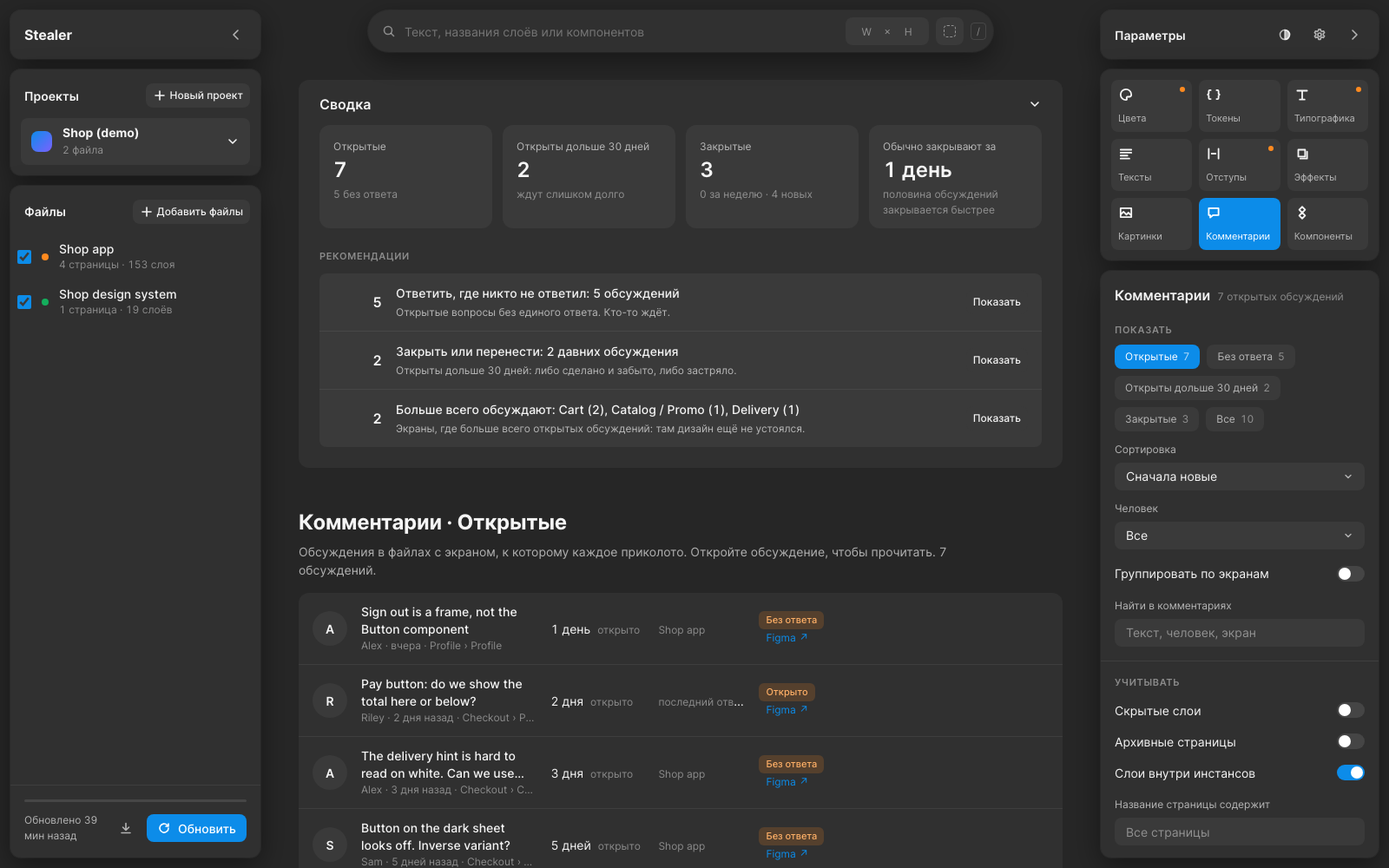
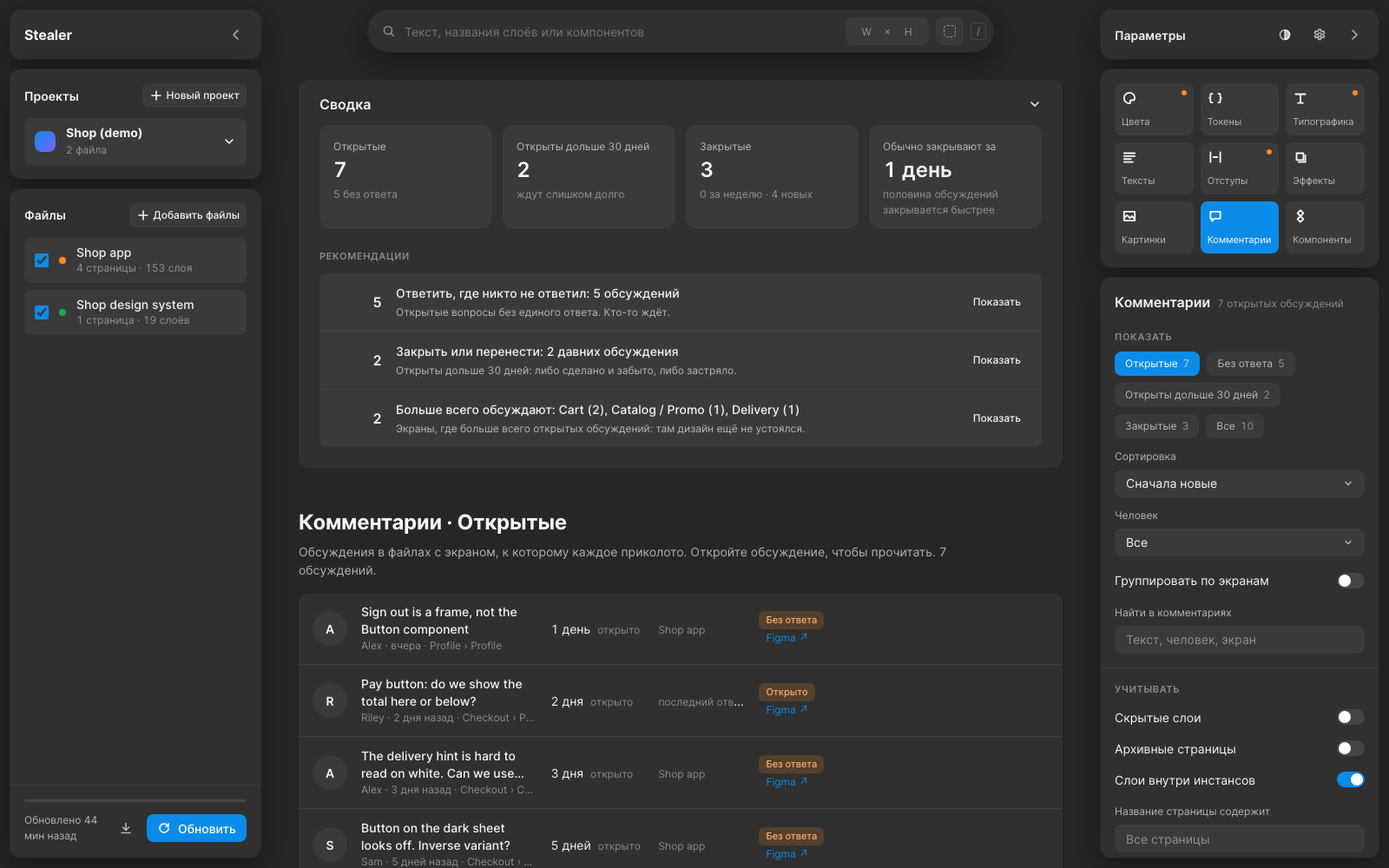
Files as cards like the project; one radius and inset system; scrollbars take no room
A file is a card like the project above it. Corners come from four steps
(12 blocks, 8 fields and cards, 6 small items, 4 swatches; pills are round), and
everything inside a block starts 16 px from its edge. System scrollbars are
hidden and a thin thumb is drawn over the edge while scrolling, so fields keep
their width whether a panel scrolls or not.

diff --git a/coloro/static/app.css b/coloro/static/app.css
@@ -18,7 +18,7 @@
 
   --fs-xs:11px; --fs-sm:12px; --fs-md:14px; --fs-lg:16px; --fs-xl:24px;
   --s1:4px; --s2:8px; --s3:12px; --s4:16px; --s5:24px; --s6:32px; --s7:48px;
-  --r:12px; --r-sm:8px; --h:32px;
+  --r:12px; --r-sm:8px; --r-xs:6px; --r-2xs:4px; --h:32px;
   --gap:12px; --lw:288px; --rw:320px;
 }
 body.light, html.pre-light body{
@@ -58,7 +58,7 @@ body.r-closed #right{transform:translateX(calc(100% + 24px));opacity:0;pointer-e
 .blk{background:var(--panel);border-radius:var(--r);box-shadow:var(--shadow-lg);flex:none}
 .blk.grow-blk{flex:1;min-height:0;display:flex;flex-direction:column}
 .ph{display:flex;align-items:center;gap:var(--s2);padding:var(--s3) var(--s3) var(--s3) var(--s4);min-height:56px}
-.bh{display:flex;align-items:center;gap:var(--s2);padding:var(--s4) var(--s3) var(--s3) var(--s4)}
+.bh{display:flex;align-items:center;gap:var(--s2);padding:var(--s4) var(--s4) var(--s3)}
 .brand{font-weight:700;font-size:var(--fs-lg);letter-spacing:-.01em}
 .title{font-weight:600;font-size:var(--fs-md)}
 .ib{width:var(--h);height:var(--h);border:0;border-radius:var(--r-sm);background:transparent;display:grid;place-items:center;cursor:pointer;color:var(--label);flex:none}
@@ -96,7 +96,7 @@ select.sel-native{display:none}
 .date-btn.is-empty .sel-v{color:var(--muted)}
 .dd{position:fixed;z-index:90;background:var(--panel);border-radius:var(--r-sm);box-shadow:var(--shadow-lg);padding:var(--s1);
   max-height:min(360px,calc(100vh - 16px));overflow:auto;display:flex;flex-direction:column;gap:1px}
-.dd-i{display:flex;align-items:center;gap:var(--s2);width:100%;min-height:var(--h);padding:0 var(--s3);border:0;border-radius:6px;background:none;
+.dd-i{display:flex;align-items:center;gap:var(--s2);width:100%;min-height:var(--h);padding:0 var(--s3);border:0;border-radius:var(--r-xs);background:none;
   color:var(--txt);text-align:left;cursor:pointer;font-size:var(--fs-md);white-space:nowrap}
 .dd-i .dd-t{flex:1}
 .dd-i:hover,.dd-i:focus{background:var(--btn);outline:none}
@@ -107,35 +107,38 @@ select.sel-native{display:none}
 .dp-h{display:flex;align-items:center;gap:var(--s2)} .dp-h b{text-align:center;font-weight:600}
 .dp-w,.dp-g{display:grid;grid-template-columns:repeat(7,1fr);gap:2px;text-align:center}
 .dp-w span{font-size:var(--fs-xs);color:var(--muted);height:24px;line-height:24px}
-.dp-d{height:32px;border:0;border-radius:6px;background:none;color:var(--txt);cursor:pointer;font-size:var(--fs-sm)}
+.dp-d{height:32px;border:0;border-radius:var(--r-xs);background:none;color:var(--txt);cursor:pointer;font-size:var(--fs-sm)}
 .dp-d:hover{background:var(--btn)} .dp-d.today{box-shadow:inset 0 0 0 1px var(--line)}
 .dp-d.on,.dp-d.on:hover{background:var(--accent);color:#fff;box-shadow:none}
 .dp-f{display:flex;justify-content:space-between;margin:0 calc(var(--s3) * -1);padding:var(--s3) var(--s3) 0;border-top:1px solid var(--line-soft)}
 .link.quiet{color:var(--label)}
 /* Files: a real button inside the field instead of the system one. */
 .in[type=file]{padding:0 var(--s1);line-height:calc(var(--h) - 2px);color:var(--muted);font-size:var(--fs-sm);cursor:pointer}
-.in[type=file]::file-selector-button{height:24px;margin:0 var(--s2) 0 0;border:0;border-radius:6px;background:var(--btn-hover);
+.in[type=file]::file-selector-button{height:24px;margin:0 var(--s2) 0 0;border:0;border-radius:var(--r-xs);background:var(--btn-hover);
   color:var(--txt);padding:0 var(--s3);font:inherit;font-size:var(--fs-sm);font-weight:500;cursor:pointer;vertical-align:middle}
 .in[type=file]:hover::file-selector-button{background:var(--line)}
 input[type=checkbox],input[type=radio]{width:16px;height:16px;margin:0;flex:none;accent-color:var(--accent);cursor:pointer}
 
 /* project */
-.projwrap{position:relative;padding:0 var(--s3) var(--s3)}
+.projwrap{position:relative;padding:0 var(--s4) var(--s4)}
 .proj{display:flex;align-items:center;gap:var(--s3);width:100%;border:0;background:var(--btn);border-radius:var(--r-sm);padding:var(--s2) var(--s3);cursor:pointer;text-align:left;line-height:1.35}
 .proj:hover{background:var(--btn-hover)}
 .proj #projMeta{font-size:var(--fs-sm)}
 .pdot{width:24px;height:24px;border-radius:var(--r-sm);flex:none;background:linear-gradient(135deg,#0c8ce9,#7b61ff)}
-.menu{position:absolute;left:var(--s3);right:var(--s3);top:calc(100% - 4px);background:var(--panel);border-radius:var(--r-sm);box-shadow:var(--shadow-lg);padding:var(--s1);z-index:5;display:none}
+.menu{position:absolute;left:var(--s4);right:var(--s4);top:calc(100% - 4px);background:var(--panel);border-radius:var(--r-sm);box-shadow:var(--shadow-lg);padding:var(--s1);z-index:5;display:none}
 .menu.on{display:block}
-.menu button{display:flex;width:100%;border:0;background:none;height:36px;padding:0 var(--s3);border-radius:6px;cursor:pointer;gap:var(--s2);align-items:center;text-align:left}
+.menu button{display:flex;width:100%;border:0;background:none;height:36px;padding:0 var(--s3);border-radius:var(--r-xs);cursor:pointer;gap:var(--s2);align-items:center;text-align:left}
 .menu button:hover{background:var(--btn)} .menu .on{font-weight:600} .menu hr{border:0;border-top:1px solid var(--line-soft);margin:var(--s1) calc(var(--s1) * -1)}
-.menu .pdot{width:16px;height:16px;border-radius:5px}
+.menu .pdot{width:16px;height:16px;border-radius:var(--r-xs)}
 .menu .danger{color:var(--bad-tx)}
 
 /* files */
 .addform{display:flex;flex-direction:column;gap:var(--s2);padding:var(--s3)}
-.file{display:grid;grid-template-columns:16px 8px minmax(0,1fr) auto;gap:var(--s3);align-items:center;padding:var(--s2);border-radius:var(--r-sm);position:relative;min-height:52px}
-.file:hover{background:var(--btn)}
+/* A file is a card like the project above it: same background, inset and corners. */
+#files{padding:0 var(--s4) var(--s4);display:flex;flex-direction:column;gap:var(--s2)}
+.file{display:grid;grid-template-columns:16px 8px minmax(0,1fr) auto;gap:var(--s3);align-items:center;padding:var(--s2) var(--s3);
+  background:var(--btn);border-radius:var(--r-sm);position:relative;min-height:52px}
+.file:hover{background:var(--btn-hover)}
 .file input{margin:0}
 .file .n{overflow:hidden;cursor:pointer;line-height:1.35}
 .file .n b{font-weight:500;display:block;overflow:hidden;text-overflow:ellipsis;white-space:nowrap}
@@ -144,18 +147,18 @@ input[type=checkbox],input[type=radio]{width:16px;height:16px;margin:0;flex:none
 .file .acts{display:none;gap:2px} .file:hover .acts{display:flex}
 .file .hits{font-size:var(--fs-xs);color:var(--accent)}
 .file:hover .hits{display:none}
-.file.solo{box-shadow:inset 2px 0 0 var(--accent)}
+.file.solo{box-shadow:inset 0 0 0 1px var(--accent)}
 .hd{width:8px;height:8px;border-radius:50%;background:var(--muted)}
 .hd.good{background:var(--ok)} .hd.fair{background:var(--warn)} .hd.bad{background:var(--bad)}
-.fbar{grid-column:3 / 5;height:2px;background:var(--line);border-radius:2px;overflow:hidden}
+.fbar{grid-column:3 / 5;height:2px;background:var(--line);border-radius:999px;overflow:hidden}
 .fbar i{display:block;height:100%;background:var(--accent);transition:width .3s}
-.total{height:3px;background:var(--line);border-radius:2px;overflow:hidden}
+.total{height:3px;background:var(--line);border-radius:999px;overflow:hidden}
 .total i{display:block;height:100%;width:0;background:var(--accent);transition:width .3s}
 .fmenu{position:absolute;right:var(--s2);top:100%;z-index:6;width:240px}
 #jobStatus{font-size:var(--fs-sm)}
 
 /* right: content types — tiles like in Booster: three in a row, icon on top, label below. */
-.types{display:grid;grid-template-columns:repeat(3,minmax(0,1fr));gap:var(--s2);padding:var(--s3)}
+.types{display:grid;grid-template-columns:repeat(3,minmax(0,1fr));gap:var(--s2);padding:var(--s4)}
 .tbtn{position:relative;height:60px;padding:var(--s2);border:0;border-radius:var(--r-sm);background:var(--btn);color:var(--txt);cursor:pointer;
   display:flex;flex-direction:column;align-items:flex-start;justify-content:space-between;transition:background .12s,transform .08s}
 .tbtn:active{transform:scale(.96)}
@@ -165,7 +168,7 @@ input[type=checkbox],input[type=radio]{width:16px;height:16px;margin:0;flex:none
 .tbtn svg.i{width:18px;height:18px}
 .tbtn i{position:absolute;top:var(--s2);right:var(--s2);width:6px;height:6px;border-radius:50%;background:var(--bad)}
 .tbtn i.fair{background:var(--warn)}
-.mini .tip{position:absolute;white-space:nowrap;background:var(--panel);box-shadow:var(--shadow-lg);padding:var(--s1) var(--s2);border-radius:6px;
+.mini .tip{position:absolute;white-space:nowrap;background:var(--panel);box-shadow:var(--shadow-lg);padding:var(--s1) var(--s2);border-radius:var(--r-xs);
   font-size:var(--fs-sm);color:var(--txt);opacity:0;pointer-events:none;transition:opacity .12s;z-index:3}
 .tbtn .tt{display:none}
 
@@ -187,7 +190,7 @@ input[type=checkbox],input[type=radio]{width:16px;height:16px;margin:0;flex:none
 .chip:disabled{opacity:.45;cursor:default}
 .chip em{font-style:normal;opacity:.7;margin-left:6px}
 .chip .dot{display:inline-block;width:8px;height:8px;border-radius:50%;margin-right:6px}
-.chip .sdot{display:inline-block;width:12px;height:12px;border-radius:4px;margin-right:6px}
+.chip .sdot{display:inline-block;width:12px;height:12px;border-radius:var(--r-2xs);margin-right:6px}
 .field{display:flex;flex-direction:column;gap:6px;padding:0}
 .field>.in,.field>select{margin:0}
 .field>.label{font-size:var(--fs-sm)}
@@ -195,7 +198,7 @@ input[type=checkbox],input[type=radio]{width:16px;height:16px;margin:0;flex:none
 /* Toggles one under another sit close; a field after them keeps the usual distance. */
 .tg+.tg{margin-top:calc(var(--s2) * -1)}
 .tg:hover{background:var(--btn)}
-.sw{width:32px;height:18px;border-radius:9px;background:var(--btn-hover);position:relative;flex:none;border:0;padding:0;cursor:pointer}
+.sw{width:32px;height:18px;border-radius:999px;background:var(--btn-hover);position:relative;flex:none;border:0;padding:0;cursor:pointer}
 .sw::after{content:"";position:absolute;top:2px;left:2px;width:14px;height:14px;border-radius:50%;background:#fff;transition:left .15s}
 .sw.on{background:var(--accent)} .sw.on::after{left:16px}
 .facet label{display:flex;align-items:center;gap:var(--s2);min-height:30px;cursor:pointer}
@@ -215,7 +218,7 @@ body.l-closed #miniL,body.r-closed #miniR,body.compact #miniL,body.compact #mini
 .mini svg.ring{position:absolute;inset:-3px;width:54px;height:54px;transform:rotate(-90deg);pointer-events:none}
 .ring circle{fill:none;stroke-width:2.5} .ring-bg{stroke:transparent} .ring-fg{stroke:var(--accent);stroke-dasharray:138.2;stroke-dashoffset:138.2;transition:stroke-dashoffset .3s}
 body.busy .ring-bg{stroke:var(--line)}
-.mini .badge{position:absolute;top:-3px;right:-3px;min-width:18px;height:18px;border-radius:9px;background:var(--bad);color:#fff;font-size:var(--fs-xs);font-weight:600;display:none;place-items:center;padding:0 5px}
+.mini .badge{position:absolute;top:-3px;right:-3px;min-width:18px;height:18px;border-radius:999px;background:var(--bad);color:#fff;font-size:var(--fs-xs);font-weight:600;display:none;place-items:center;padding:0 5px}
 .mini .badge.on{display:grid} .mini .badge.blue{background:var(--accent)}
 .mini .tip{top:50%;transform:translateY(-50%)}
 #miniL .tip{left:58px} #miniR .tip{right:58px}
@@ -226,7 +229,7 @@ body.busy .ring-bg{stroke:var(--line)}
 body.l-closed #center,body.compact #center{left:calc(48px + var(--gap) * 2)}
 body.r-closed #center,body.compact #center{right:calc(48px + var(--gap) * 2)}
 .search{position:sticky;top:var(--gap);z-index:10;margin:var(--gap) auto 0;max-width:720px;display:flex;align-items:center;gap:var(--s2);
-  background:var(--panel);border-radius:24px;box-shadow:var(--shadow-lg);padding:0 var(--s2) 0 var(--s4);height:48px;color:var(--muted)}
+  background:var(--panel);border-radius:999px;box-shadow:var(--shadow-lg);padding:0 var(--s2) 0 var(--s4);height:48px;color:var(--muted)}
 .search input{background:none;border:0;color:var(--txt);min-width:0}
 .search input:focus{outline:none}
 #q{flex:1;font-size:var(--fs-md)}
@@ -234,9 +237,9 @@ body.r-closed #center,body.compact #center{right:calc(48px + var(--gap) * 2)}
 .dims input{width:32px;height:100%;text-align:center;font-size:var(--fs-sm)}
 .dims input::placeholder{color:var(--muted)}
 .swbtn{width:var(--h);height:var(--h);border-radius:var(--r-sm);border:0;background:var(--btn);cursor:pointer;display:grid;place-items:center;padding:0}
-.swbtn span{width:14px;height:14px;border-radius:4px;border:1.5px dashed var(--muted)}
+.swbtn span{width:14px;height:14px;border-radius:var(--r-2xs);border:1.5px dashed var(--muted)}
 .swbtn span.set{border:1px solid var(--line)}
-.kbd{font-size:var(--fs-xs);border:1px solid var(--line);border-radius:4px;padding:1px 6px}
+.kbd{font-size:var(--fs-xs);border:1px solid var(--line);border-radius:var(--r-2xs);padding:1px 6px}
 .cpop{position:fixed;z-index:40;width:300px;background:var(--panel);border-radius:var(--r);box-shadow:var(--shadow-lg);padding:var(--s4);display:flex;flex-direction:column;gap:var(--s3)}
 .cpop input[type=color]{width:var(--h);height:var(--h);border:0;padding:0;background:none;cursor:pointer;flex:none;border-radius:var(--r-sm);overflow:hidden}
 .cpop input[type=color]::-webkit-color-swatch-wrapper{padding:0} .cpop input[type=color]::-webkit-color-swatch{border:1px solid var(--line);border-radius:var(--r-sm)}
@@ -271,13 +274,13 @@ button.tile{cursor:pointer} button.tile:hover{background:var(--btn)}
 .mapw{overflow-x:auto}
 .map{width:100%;border-collapse:separate;border-spacing:3px}
 .map th{font-weight:400;color:var(--muted);text-align:left;padding:var(--s1) var(--s2);font-size:var(--fs-sm)}
-.map td{padding:var(--s2);border-radius:6px;background:var(--panel)}
+.map td{padding:var(--s2);border-radius:var(--r-xs);background:var(--panel)}
 .map td.c{text-align:right}
 .map td.go{cursor:pointer} .map td.go:hover{filter:brightness(1.15)}
 .map td.f small{display:block;color:var(--muted)}
 .lv-good{background:var(--good-bg)!important;color:var(--good-tx)} .lv-fair{background:var(--fair-bg)!important;color:var(--fair-tx)} .lv-bad{background:var(--bad-bg)!important;color:var(--bad-tx)}
 .legend{display:flex;gap:var(--s4);color:var(--muted);margin-top:var(--s2);font-size:var(--fs-sm);flex-wrap:wrap}
-.legend i{display:inline-block;width:10px;height:10px;border-radius:3px;margin-right:6px;vertical-align:-1px}
+.legend i{display:inline-block;width:10px;height:10px;border-radius:var(--r-2xs);margin-right:6px;vertical-align:-1px}
 
 /* rows: a list is one card, rows are separated by hairlines */
 .list{display:flex;flex-direction:column;background:var(--panel);border-radius:var(--r);overflow:hidden}
@@ -298,11 +301,11 @@ button.tile{cursor:pointer} button.tile:hover{background:var(--btn)}
 .crow:hover .sample:not(.chk):not(.onbg),.crow.open .sample:not(.chk):not(.onbg){background:var(--btn-hover)}
 .sample.chk{background:repeating-conic-gradient(var(--btn) 0 25%,var(--panel) 0 50%) 0 0/8px 8px}
 .sample i{position:absolute;inset:0;border-radius:inherit;border:1px solid var(--line)}
-.sample.eff{background:#ececec} .sample.eff i{position:static;width:18px;height:18px;border-radius:4px;background:#fff;border:0}
+.sample.eff{background:#ececec} .sample.eff i{position:static;width:18px;height:18px;border-radius:var(--r-2xs);background:#fff;border:0}
 .sample img{width:100%;height:100%;object-fit:cover}
 .sample.onbg{border:1px solid var(--line)} .sample.onbg b{font-size:var(--fs-md);font-weight:600}
-.onrow{display:inline-flex;gap:var(--s1);margin-right:var(--s2);vertical-align:middle} .onrow .sample{width:24px;height:24px;border-radius:6px} .onrow .sample b{font-size:var(--fs-xs)}
-.tonebar{display:flex;height:6px;border-radius:3px;overflow:hidden;width:160px;margin:var(--s1) 0;background:var(--btn)}
+.onrow{display:inline-flex;gap:var(--s1);margin-right:var(--s2);vertical-align:middle} .onrow .sample{width:24px;height:24px;border-radius:var(--r-xs)} .onrow .sample b{font-size:var(--fs-xs)}
+.tonebar{display:flex;height:6px;border-radius:var(--r-2xs);overflow:hidden;width:160px;margin:var(--s1) 0;background:var(--btn)}
 .tonebar i{display:block;height:100%} .tonebar.mini{width:96px;height:4px;margin:6px 0 0}
 .tonebar .t-light{background:#ececec} .tonebar .t-dark{background:#2a2a2e} .tonebar .t-image{background:#9a9a9a}
 .tonebar .t-gradient{background:linear-gradient(90deg,#7a7ff0,#f07ab8)} .tonebar .t-none{background:transparent} .tonebar .t-mixed{background:linear-gradient(90deg,#ececec 50%,#2a2a2e 50%)}
@@ -313,8 +316,8 @@ button.tile{cursor:pointer} button.tile:hover{background:var(--btn)}
 .subplaces{padding:var(--s2) var(--s3) var(--s3) 64px} .ksurf{margin:var(--s3) 0}
 .gbar{height:32px;border-radius:var(--r-sm);border:1px solid var(--line)}
 .stops{display:flex;gap:var(--s1);flex-wrap:wrap}
-.stops code{font-size:var(--fs-xs);background:var(--btn);border-radius:4px;padding:1px 6px}
-.tag{display:inline-block;border-radius:6px;padding:2px 8px;font-size:var(--fs-xs);font-weight:500;margin-right:var(--s2);line-height:1.5}
+.stops code{font-size:var(--fs-xs);background:var(--btn);border-radius:var(--r-2xs);padding:1px 6px}
+.tag{display:inline-block;border-radius:var(--r-xs);padding:2px 8px;font-size:var(--fs-xs);font-weight:500;margin-right:var(--s2);line-height:1.5}
 .tag.near,.tag.alpha,.tag.unbound{background:var(--fair-bg);color:var(--fair-tx)}
 .tag.off{background:var(--bad-bg);color:var(--bad-tx)}
 .tag.ok,.tag.token{background:var(--good-bg);color:var(--good-tx)}
@@ -329,7 +332,7 @@ button.tile{cursor:pointer} button.tile:hover{background:var(--btn)}
 .scr .path .sep{color:var(--muted);margin:0 6px}
 .scr .cnt{color:var(--muted);font-size:var(--fs-sm);grid-column:1 / 2;overflow:hidden;text-overflow:ellipsis;white-space:nowrap}
 .scr .acts{display:flex;gap:2px;grid-row:1 / 3;grid-column:3}
-.scr .acts a,.scr .acts button{display:grid;place-items:center;width:var(--h);height:var(--h);border-radius:6px;border:0;background:none;color:var(--label);cursor:pointer}
+.scr .acts a,.scr .acts button{display:grid;place-items:center;width:var(--h);height:var(--h);border-radius:var(--r-xs);border:0;background:none;color:var(--label);cursor:pointer}
 .scr .acts a:hover,.scr .acts button:hover{background:var(--btn);color:var(--txt);text-decoration:none}
 .layers{margin:0 0 var(--s2) var(--s4)}
 .place{display:flex;align-items:center;gap:var(--s3);padding:var(--s2) var(--s3);border-bottom:1px solid var(--line-soft);font-size:var(--fs-sm)}
@@ -352,7 +355,7 @@ button.tile{cursor:pointer} button.tile:hover{background:var(--btn)}
 .tvals{display:flex;flex-wrap:wrap;gap:var(--s2);align-items:center;white-space:normal}
 .tval{display:inline-flex;gap:6px;align-items:center}
 .tval.dim{opacity:.4}
-.tval .sw2{display:inline-block;width:12px;height:12px;border-radius:3px;border:1px solid var(--line)}
+.tval .sw2{display:inline-block;width:12px;height:12px;border-radius:var(--r-2xs);border:1px solid var(--line)}
 
 /* section summary */
 .summary{background:var(--panel);border-radius:var(--r);margin-bottom:var(--s2)}
@@ -371,7 +374,7 @@ button.tile{cursor:pointer} button.tile:hover{background:var(--btn)}
 .sfile{display:flex;align-items:center;gap:var(--s2);border:0;background:var(--btn);border-radius:var(--r-sm);height:40px;padding:0 var(--s3);cursor:pointer;text-align:left;color:inherit}
 .sfile:hover{background:var(--btn-hover)}
 .sfile span.grow{overflow:hidden;text-overflow:ellipsis;white-space:nowrap}
-.lv{padding:1px 8px;border-radius:6px;font-size:var(--fs-xs);font-weight:500}
+.lv{padding:1px 8px;border-radius:var(--r-xs);font-size:var(--fs-xs);font-weight:500}
 
 /* component inspector */
 .kinsp{display:grid;grid-template-columns:minmax(0,1fr) 300px;gap:var(--s4);margin:var(--s2) 0 var(--s4)}
@@ -380,7 +383,7 @@ button.tile{cursor:pointer} button.tile:hover{background:var(--btn)}
 .kstage{position:relative;cursor:crosshair}
 .kov{position:absolute;inset:0;pointer-events:none}
 .kov div{position:absolute}
-.kov span{position:absolute;font:600 10px/1 Inter,system-ui,sans-serif;color:#fff;padding:2px 4px;border-radius:3px;white-space:nowrap}
+.kov span{position:absolute;font:600 10px/1 Inter,system-ui,sans-serif;color:#fff;padding:2px 4px;border-radius:var(--r-2xs);white-space:nowrap}
 .ksel{outline:1.5px solid #0c8ce9} .ksel>span{background:#0c8ce9;left:50%;top:100%;transform:translate(-50%,4px)}
 .khov{outline:1px dashed #0c8ce9} .khov>span{background:rgba(12,140,233,.85);left:0;bottom:100%;transform:translateY(-3px)}
 .kpad{background:rgba(255,138,31,.28)} .kpad>span{background:#d96a00;left:50%;top:50%;transform:translate(-50%,-50%)}
@@ -391,7 +394,7 @@ button.tile{cursor:pointer} button.tile:hover{background:var(--btn)}
 .kp-h b{overflow:hidden;text-overflow:ellipsis;white-space:nowrap}
 .kp-k{color:var(--muted)} .kp-v{min-width:0;overflow-wrap:anywhere}
 .kp-row{display:flex;align-items:center;gap:6px;flex-wrap:wrap;margin-bottom:2px}
-.kp-row .sw2,.tipbox .sw2{display:inline-block;width:12px;height:12px;border-radius:3px;border:1px solid var(--line)}
+.kp-row .sw2,.tipbox .sw2{display:inline-block;width:12px;height:12px;border-radius:var(--r-2xs);border:1px solid var(--line)}
 .kp-acts{grid-column:1 / -1;display:flex;gap:var(--s2);margin-top:var(--s2)}
 .kp-kids{display:flex;flex-direction:column;gap:2px;align-items:flex-start}
 @media (max-width:1300px){ .kinsp{grid-template-columns:1fr} }
@@ -416,7 +419,7 @@ button.tile{cursor:pointer} button.tile:hover{background:var(--btn)}
 
 /* toasts */
 #toasts{position:fixed;left:50%;bottom:var(--s5);transform:translateX(-50%);display:flex;flex-direction:column;gap:var(--s2);align-items:center;z-index:80;pointer-events:none}
-.toast{background:var(--panel);box-shadow:var(--shadow-lg);border-radius:22px;padding:var(--s3) var(--s4);display:flex;align-items:center;gap:var(--s2);animation:tin .2s ease;pointer-events:auto;max-width:560px}
+.toast{background:var(--panel);box-shadow:var(--shadow-lg);border-radius:999px;padding:var(--s3) var(--s4);display:flex;align-items:center;gap:var(--s2);animation:tin .2s ease;pointer-events:auto;max-width:560px}
 .toast.out{animation:tout .25s ease forwards}
 .toast .d{width:8px;height:8px;border-radius:50%;background:var(--accent);flex:none}
 .toast.ok .d{background:var(--ok)} .toast.err .d{background:var(--bad)} .toast.err{border:1px solid var(--bad-bg)}
@@ -451,24 +454,20 @@ body.compact .panel .collapse{display:none}
 }
 @media (max-width:600px){ .dims{display:none} }
 
-/* Scrollbars: thin and invisible at rest; they appear only while scrolling (see app.js). */
-*::-webkit-scrollbar{width:6px;height:6px;background:transparent}
-*::-webkit-scrollbar-track{background:transparent}
-*::-webkit-scrollbar-corner{background:transparent}
-*::-webkit-scrollbar-thumb{background:transparent;border-radius:3px}
-.scrolling::-webkit-scrollbar-thumb{background:rgba(255,255,255,.28)}
-body.light .scrolling::-webkit-scrollbar-thumb{background:rgba(0,0,0,.25)}
-@supports not selector(::-webkit-scrollbar){
-  *{scrollbar-width:thin;scrollbar-color:transparent transparent}
-  .scrolling{scrollbar-color:rgba(128,128,128,.45) transparent}
-}
+/* Scrollbars never take room: the system ones are hidden, and while something scrolls a thin thumb
+   is drawn over its right edge (see app.js). So fields keep their width whether a panel scrolls or not. */
+*{scrollbar-width:none}
+*::-webkit-scrollbar{display:none;width:0;height:0}
+.sthumb{position:fixed;width:4px;border-radius:999px;background:rgba(255,255,255,.32);opacity:0;transition:opacity .35s;pointer-events:none;z-index:200}
+.sthumb.on{opacity:1;transition:opacity .1s}
+body.light .sthumb{background:rgba(0,0,0,.28)}
 
 /* tokens: a table like the variables panel in Figma */
 .tcolls{margin:0 0 var(--s4);max-width:100%;overflow-x:auto}
 .tcolls button{flex:none;white-space:nowrap}
 .tokwrap{display:grid;grid-template-columns:220px minmax(0,1fr);gap:var(--s4);align-items:start}
 .tgroups{display:flex;flex-direction:column;gap:2px;position:sticky;top:76px;max-height:calc(100vh - 100px);overflow:auto;background:var(--panel);border-radius:var(--r);padding:var(--s2)}
-.tgroups button{display:flex;gap:var(--s2);align-items:center;border:0;background:none;height:34px;padding:0 var(--s3);border-radius:6px;cursor:pointer;text-align:left;color:var(--label)}
+.tgroups button{display:flex;gap:var(--s2);align-items:center;border:0;background:none;height:34px;padding:0 var(--s3);border-radius:var(--r-xs);cursor:pointer;text-align:left;color:var(--label)}
 .tgroups button:hover{background:var(--btn);color:var(--txt)} .tgroups button.on{background:var(--btn);color:var(--txt);font-weight:500}
 .tgroups em{font-style:normal;margin-left:auto;color:var(--muted);font-size:var(--fs-sm)}
 .tablew{background:var(--panel);border-radius:var(--r);overflow:hidden}
@@ -485,8 +484,8 @@ body.light .scrolling::-webkit-scrollbar-thumb{background:rgba(0,0,0,.25)}
 .vtable .tplaces td{background:var(--bg);padding:var(--s2) var(--s3)}
 .vtable .tplaces .places{padding:var(--s2);background:none}
 .tcell{display:inline-flex;align-items:center;gap:var(--s2)}
-.vtable .sw2{display:inline-block;width:16px;height:16px;border-radius:4px;border:1px solid var(--line);flex:none}
-.tico{width:16px;height:16px;border-radius:4px;background:var(--btn);display:inline-grid;place-items:center;font-size:var(--fs-xs);color:var(--label);flex:none}
+.vtable .sw2{display:inline-block;width:16px;height:16px;border-radius:var(--r-2xs);border:1px solid var(--line);flex:none}
+.tico{width:16px;height:16px;border-radius:var(--r-2xs);background:var(--btn);display:inline-grid;place-items:center;font-size:var(--fs-xs);color:var(--label);flex:none}
 @media (max-width:1200px){ .tokwrap{grid-template-columns:1fr} .tgroups{position:static;max-height:none;flex-direction:row;flex-wrap:wrap} }
 .tmulti{display:inline-flex;flex-wrap:wrap;gap:var(--s2);align-items:center}
 

diff --git a/coloro/static/app.js b/coloro/static/app.js
@@ -173,13 +173,18 @@ document.addEventListener("click", (e) => {
   if (!e.target.closest("#cpop,#swBtn")) $("#cpop").hidden = true;
 });
 addEventListener("resize", fit);
-// Полоски прокрутки видны, только пока прокручиваешь, и гаснут через секунду.
+// Ползунок прокрутки поверх содержимого: виден, только пока прокручиваешь, места не занимает.
+const THUMB = document.body.appendChild(Object.assign(document.createElement("div"), { className: "sthumb" }));
 document.addEventListener("scroll", (e) => {
-  const el = e.target === document ? document.documentElement : e.target;
-  if (!el.classList) return;
-  el.classList.add("scrolling");
-  clearTimeout(el._scrollT);
-  el._scrollT = setTimeout(() => el.classList.remove("scrolling"), 900);
+  const el = e.target === document ? document.scrollingElement : e.target;
+  if (!el || !el.getBoundingClientRect || el.scrollHeight <= el.clientHeight + 1) return;
+  const r = el.getBoundingClientRect(), ch = el.clientHeight, sh = el.scrollHeight;
+  const h = Math.max(28, (ch * ch) / sh) - 8;
+  const top = r.top + 4 + (ch - 8 - h) * (el.scrollTop / (sh - ch));
+  THUMB.style.top = top + "px"; THUMB.style.left = r.left + el.clientWidth - 7 + "px"; THUMB.style.height = h + "px";
+  THUMB.classList.add("on");
+  clearTimeout(THUMB._t);
+  THUMB._t = setTimeout(() => THUMB.classList.remove("on"), 800);
 }, true);
 
 function applyTheme(light) {
